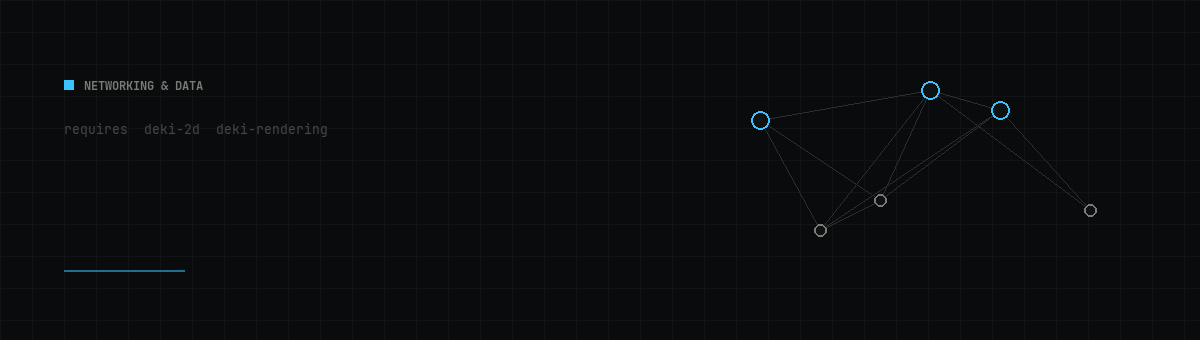
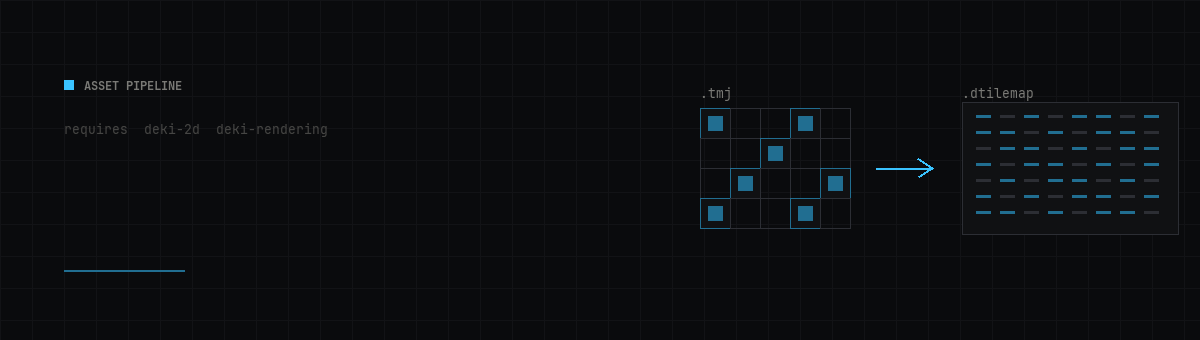
Docs for deki-tiledmapeditor-integration from deki-editor a9dff6a

diff --git a/index.html b/index.html
@@ -101,10 +101,9 @@ document.addEventListener('DOMContentLoaded',() => { initNavTree('index.html',''
 </div><!--header-->
 <div class="contents">
 <div class="textblock"><p><a class="anchor" id="mainpage"></a></p>
-<div class="image">
-<img src="deki-tiledmapeditor-integration.png" alt=""/>
-</div>
-    <p>Loads and renders maps authored in Tiled (.tmj) with chunk streaming</p>
+<p><img src="deki-tiledmapeditor-integration.png" alt="" class="inline"/>    </p>
+<p><img src="deki-tiledmapeditor-integration-sm.png" alt="" class="inline"/>    </p>
+<p>Loads and renders maps authored in Tiled (.tmj) with chunk streaming</p>
 <p>Repository: <a href="https://github.com/dekiengine/deki-tiledmapeditor-integration">github.com/dekiengine/deki-tiledmapeditor-integration</a> · Latest release: 0.16.0 · Needs engine 0.16.0+ · Requires: <a href="https://dekiengine.github.io/deki-2d/">deki-2d</a>, <a href="https://dekiengine.github.io/deki-rendering/">deki-rendering</a></p>
 <p>Install with <span class="tt">DekiEditor --packages-add deki-tiledmapeditor-integration &lt;project&gt;</span>, or from the Package Manager. The engine's own components and C++ API are in the <a href="https://dekiengine.github.io/docs/">Deki docs</a>.</p>
 <p>Shown in the editor as <b>Tiled Map Editor Integration</b>.</p>

diff --git a/deki.css b/deki.css
@@ -469,3 +469,26 @@ div.contents table.markdownTable td:first-child {
     font-size: 11px;
 }
 #nav-path li.footer { color: var(--page-secondary-foreground-color); }
+
+/* The package header image. Two files, one drawing: the wide banner, and an
+ * upright cut for a phone, where the banner's schematic would land at about
+ * 120 pixels across, present but not legible. The page carries both and this
+ * chooses; a <picture> would be the honest way to say it, but doxygen drops
+ * tags it does not know and picture is one of them.
+ *
+ * Matched on the file name because that is all doxygen leaves to match on: it
+ * emits every markdown image as <img class="inline"> and keeps nothing else.
+ * Covers are the only deki-*.png a package page has. */
+p img[src^="deki-"] {
+    display: block;
+    width: 100%;
+    height: auto;
+    margin: 4px 0 24px;
+    border: 1px solid var(--separator-color);
+}
+p img[src$="-sm.png"] { display: none; }
+
+@media (max-width: 640px) {
+    p img[src^="deki-"]:not([src$="-sm.png"]) { display: none; }
+    p img[src$="-sm.png"] { display: block; }
+}
